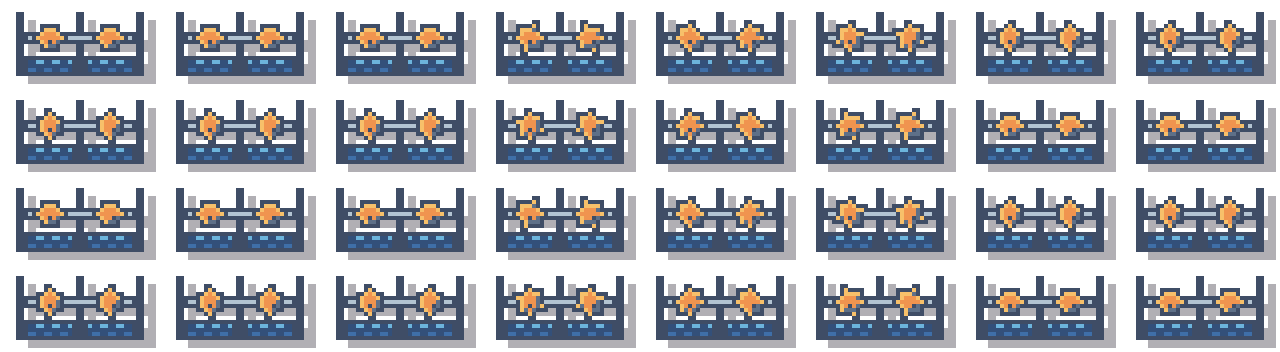
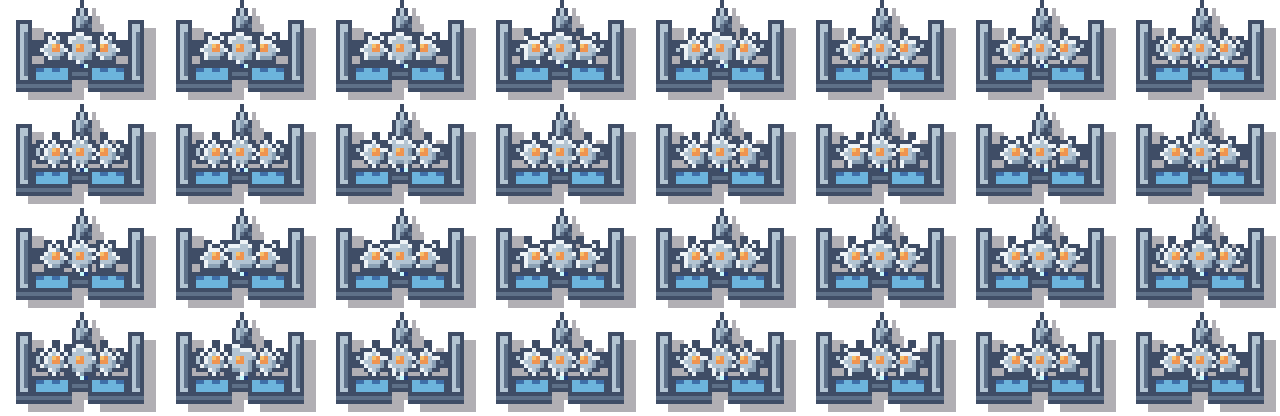
Pixel : souterrains en rampe sous linteau, répartiteurs plus travaillés et animés
Souterrain : tranchée qui se rétrécit et s'assombrit (trame) avant le linteau. Répartiteur : poteaux, nez diviseur,
trois engrenages, capots aux couleurs du niveau, voyants alternés ; cadre agrandi à 160 x 104 / 104 x 160.

diff --git a/pixel/pillow/belt_structures.py b/pixel/pillow/belt_structures.py
@@ -1,10 +1,10 @@
 """Souterrains et répartiteurs en pixel art (16 px par case, x4 à l'export), aux couleurs des convoyeurs.
 
 Souterrain : planche 4 x 4 de cellules de 48 px d'art (le jeu y lit 192 px) ; colonnes = nord, est, sud, ouest ;
-rangées = sortie, entrée, sortie en insertion latérale, entrée en insertion latérale. Le capot couvre la moitié de la case
-du côté enterré.
-Répartiteur : 4 orientations, 32 images chacune (planche 8 x 4). Deux piliers et une cloison laissent voir les deux
-tapis ; un rail à engrenages traverse le milieu et deux capots à chevrons coiffent l'entrée.
+rangées = sortie, entrée, sortie en insertion latérale, entrée en insertion latérale. Le tapis (animé, dessiné par le
+jeu en dessous) s'enfonce dans une rampe tramée de plus en plus sombre, puis passe sous un linteau en acier.
+Répartiteur : 4 orientations, 32 images chacune (planche 8 x 4). Poteaux d'extrémité, cloison centrale avec son nez
+diviseur, rail à trois engrenages qui tournent, capots à chevrons et voyants qui clignotent.
 
 Usage : python pixel/pillow/belt_structures.py <dossier_sortie>   (aperçu)
 """
@@ -20,11 +20,14 @@ STEEL = (P["steel_dark"], P["steel"], P["steel_mid"], P["steel_light"])
 FLOW = {"N": (0, -1), "E": (1, 0), "S": (0, 1), "W": (-1, 0)}
 
 
-def plate_color(a, b, tier):
-    """Plaque à chevrons : `a` avance dans le sens du flux, `b` va en travers (période 4)."""
+def plate_color(a, b, tier, bright=False):
+    """Plaque à chevrons : `a` avance dans le sens du flux, `b` va en travers (période 4).
+    `bright` : fond aux couleurs du niveau et chevrons sombres (capots) ; sinon fond sombre et chevrons clairs."""
     light, dark = BELT[tier]
     c = abs((b % 4) - 1.5)
     ph = (a + (1 if c > 1 else 0)) % 4
+    if bright:
+        return dark if ph == 1 else light
     return light if ph == 1 else dark if ph == 0 else belt.BASE[tier]
 
 
@@ -36,7 +39,7 @@ def rect_mask(size, rects):
     return m
 
 
-def paint_plate(img, rect, flow, tier, inset=1):
+def paint_plate(img, rect, flow, tier, inset=1, bright=False):
     """Remplit l'intérieur d'un rectangle (x0, y0, x1, y1) avec la plaque à chevrons orientée selon `flow`."""
     x0, y0, x1, y1 = rect
     for y in range(y0 + inset, y1 - inset):
@@ -49,7 +52,7 @@ def paint_plate(img, rect, flow, tier, inset=1):
                 a, b = (x - x0), y
             else:
                 a, b = (x1 - 1 - x), y
-            img.putpixel((x, y), plate_color(a, b, tier))
+            img.putpixel((x, y), plate_color(a, b, tier, bright))
 
 
 def with_shadow(img, mask, offset=(3, 2)):
@@ -59,25 +62,66 @@ def with_shadow(img, mask, offset=(3, 2)):
     return out
 
 
+def add_face(img, mask):
+    """Hauteur : face avant sur les 2 px sous le bord sud d'une forme (modifie `img` et `mask`)."""
+    w, h = mask.size
+    src = mask.copy()
+    for y in range(h - 1):
+        for x in range(w):
+            if src.getpixel((x, y)) and not src.getpixel((x, y + 1)):
+                for k, c in ((1, P["steel"]), (2, P["steel_dark"])):
+                    if y + k < h and not src.getpixel((x, y + k)):
+                        img.putpixel((x, y + k), c)
+                        mask.putpixel((x, y + k), 255)
+
+
 # ---------------------------------------------------------------- souterrain
+BAYER = [[0, 8, 2, 10], [12, 4, 14, 6], [3, 11, 1, 9], [15, 7, 13, 5]]
+HOOD = 6          # profondeur du linteau (px)
+RAMP = 8          # longueur de la rampe (px)
+
+
+def tile_coords(direction, x, y):
+    """(s, lat) d'un pixel (x, y) de la case : s avance dans le sens du flux (0 à 16), lat va en travers (-8 à 8)."""
+    px, py = x + 0.5, y + 0.5
+    return {"E": (px, py - 8), "W": (belt.T - px, py - 8), "N": (belt.T - py, px - 8), "S": (py, px - 8)}[direction]
+
+
 def underground_cell(direction, entering, tier):
-    """Cellule de 48 x 48 px d'art ; la case occupe [16, 32[. Capot de 10 px sur le côté enterré, plus 2 px de face avant."""
+    """Cellule de 48 x 48 px d'art ; la case occupe [16, 32[. `d` = distance au bord enterré (0 = au bord)."""
     fx, fy = FLOW[direction]
-    ahead = entering                 # entrée : capot devant (sens du flux) ; sortie : capot derrière
-    s = 1 if ahead else -1
-    hood = [16, 16, 32, 32]
-    if fx:
-        hood[0], hood[2] = (22, 32) if fx * s > 0 else (16, 26)
-    else:
-        hood[1], hood[3] = (22, 32) if fy * s > 0 else (16, 26)
-    x0, y0, x1, y1 = hood
-    mask = rect_mask((48, 48), [(x0, y0, x1, y1 + 2)])
-    img = autoshade(mask, STEEL)
-    paint_plate(img, (x0, y0, x1, y1), (fx, fy), tier, inset=2)
-    for x in range(x0 + 1, x1 - 1):                       # face avant (hauteur du capot)
-        img.putpixel((x, y1), P["steel"])
-        img.putpixel((x, y1 + 1), P["steel_dark"])
-    return with_shadow(img, mask)
+    out_dir = (fx, fy) if entering else (-fx, -fy)           # direction du bord enterré
+    hood = Image.new("L", (48, 48), 0)
+    img = Image.new("RGBA", (48, 48), (0, 0, 0, 0))
+    light, dark = BELT[tier]
+    for ty in range(belt.T):
+        for tx in range(belt.T):
+            s, lat = tile_coords(direction, tx, ty)
+            d = (belt.T - s) if entering else s
+            x, y = tx + 16, ty + 16
+            if d < HOOD:
+                hood.putpixel((x, y), 255)
+                if d < 2:
+                    c = belt.shade(d, out_dir)               # bord du linteau : contour puis lumière ou ombre
+                elif d < HOOD - 2:
+                    c = light if (abs(lat) % 4) < 2 else belt.BASE[tier]     # bandeau de la couleur du niveau
+                elif d < HOOD - 1:
+                    c = P["steel_mid"]
+                else:
+                    c = P["steel_dark"]
+                img.putpixel((x, y), c)
+            elif d < HOOD + RAMP:
+                # rampe : la tranchée se rétrécit vers le linteau (murs en acier) et s'assombrit (trame de plus en
+                # plus dense) ; le tapis animé reste visible entre les murs
+                t = 1 - (d - HOOD) / RAMP
+                wall = 5.5 - 1.5 * t
+                if abs(lat) > wall:
+                    img.putpixel((x, y), P["steel_dark"] if abs(lat) - wall < 1 else P["steel"])
+                elif BAYER[y % 4][x % 4] / 16 < 0.15 + 0.8 * t:
+                    img.putpixel((x, y), P["steel_dark"] if t < 0.6 else P["blue_out"])
+    # hauteur du linteau : face avant sur les 2 px sous son bord sud
+    add_face(img, hood)
+    return with_shadow(img, hood)
 
 
 def underground_sheet(tier):
@@ -97,19 +141,22 @@ def gear_mask(size, cx, cy, r, teeth, ph):
     d.ellipse((cx - r, cy - r, cx + r, cy + r), fill=255)
     for i in range(teeth):
         a = 2 * math.pi * (i + ph) / teeth
-        x, y = round(cx + (r + 0.6) * math.cos(a)), round(cy + (r + 0.6) * math.sin(a))
+        x, y = round(cx + (r + 0.7) * math.cos(a)), round(cy + (r + 0.7) * math.sin(a))
         d.rectangle((x - 1, y - 1, x, y), fill=255)
     return m
 
 
-def splitter_frame(direction, phase, tier):
-    """Une image du répartiteur. Les pièces sont définies pour le nord (32 x 16) puis tournées."""
-    k = "NESW".index(direction)
-    horizontal = direction in "NS"
-    fw, fh = (40, 22) if horizontal else (22, 40)
-    ox, oy = (4, 3) if horizontal else (3, 4)
+FRAME = {"N": (40, 26), "S": (40, 26), "E": (26, 40), "W": (26, 40)}
 
-    def tr(x, y):                       # point local (nord, 32 x 16) -> point de l'image
+
+def splitter_frame(direction, phase, tier):
+    """Une image du répartiteur. Les pièces sont définies pour le nord (32 x 16, le flux monte) puis tournées."""
+    k = "NESW".index(direction)
+    fw, fh = FRAME[direction]
+    ox, oy = (4, 5) if direction in "NS" else (5, 4)
+    size = (fw, fh)
+
+    def tr(x, y):                       # point local -> point de l'image
         if k == 0:
             return x + ox, y + oy
         if k == 2:
@@ -122,27 +169,52 @@ def splitter_frame(direction, phase, tier):
         (ax, ay), (bx, by) = tr(x0, y0), tr(x1, y1)
         return min(ax, bx), min(ay, by), max(ax, bx), max(ay, by)
 
-    posts = [tr_rect(*r) for r in ((0, 0, 2, 16), (30, 0, 32, 16), (15, 0, 17, 16))]
-    rail = tr_rect(2, 8, 30, 11)
-    caps = [tr_rect(2, 0, 15, 5), tr_rect(17, 0, 30, 5)]
-    size = (fw, fh)
-    shape = rect_mask(size, posts + [rail] + caps)
-
     img = Image.new("RGBA", size, (0, 0, 0, 0))
-    img.alpha_composite(autoshade(rect_mask(size, posts), STEEL))
-    img.alpha_composite(autoshade(rect_mask(size, [rail]), STEEL))
+    tall = Image.new("L", size, 0)          # pièces hautes (reçoivent une face avant)
+    flat = Image.new("L", size, 0)          # pièces basses (rail, engrenages)
     flow = FLOW[direction]
-    for cap in caps:
-        img.alpha_composite(autoshade(rect_mask(size, [cap]), STEEL))
-        paint_plate(img, cap, flow, tier, inset=1)
-    # deux engrenages sur le rail, en sens inverses ; 2 dents par boucle (6 dents) pour que la boucle se referme
-    for n, (gx, gy) in enumerate(((8.5, 9.5), (23.5, 9.5))):
+
+    def put(mask, high=True, ramp=STEEL):
+        img.alpha_composite(autoshade(mask, ramp))
+        (tall if high else flat).paste(255, (0, 0), mask)
+
+    # rail transversal, sous tout le reste
+    put(rect_mask(size, [tr_rect(4, 7, 28, 11)]), high=False, ramp=(P["steel_dark"], P["steel"], P["steel_mid"], P["steel_light"]))
+    # poteaux d'extrémité, cloison centrale et nez diviseur côté entrée
+    put(rect_mask(size, [tr_rect(0, 0, 4, 16), tr_rect(28, 0, 32, 16)]))
+    nose = Image.new("L", size, 0)
+    ImageDraw.Draw(nose).polygon([tr(14, 16), tr(18, 16), tr(16, 20.5)], fill=255)
+    wall = rect_mask(size, [tr_rect(14, 3, 18, 16)])
+    wall.paste(255, (0, 0), nose)
+    put(wall)
+    for lx, ly in ((1.5, 1.5), (1.5, 14), (29.5, 1.5), (29.5, 14)):   # rivets des poteaux
+        x, y = tr(lx, ly)
+        img.putpixel((int(x), int(y)), P["steel_light"])
+    # engrenages : un grand au centre, un de chaque côté, sens alternés, 2 dents par boucle (6 ou 8 dents)
+    for n, (gx, gy, r, teeth) in enumerate(((9.5, 9, 3.0, 6), (16, 9, 3.6, 8), (22.5, 9, 3.0, 6))):
         cx, cy = tr(gx, gy)
-        ph = (2 * phase) * (1 if n == 0 else -1)
-        g = autoshade(gear_mask(size, cx, cy, 2.6, 6, ph), (P["steel_dark"], P["steel"], P["orange"], P["tan"]))
-        img.alpha_composite(g)
-        img.putpixel((round(cx), round(cy)), P["steel_dark"])
-    return with_shadow(img, shape)
+        gm = gear_mask(size, cx, cy, r, teeth, 2 * phase * (-1 if n == 1 else 1) * 6 / teeth)
+        put(gm, high=False, ramp=(P["steel_dark"], P["steel_mid"], P["steel_light"], P["white"]))
+        hx_, hy_ = round(cx), round(cy)
+        for dx in (0, -1):
+            for dy in (0, -1):
+                img.putpixel((hx_ + dx, hy_ + dy), P["orange"])
+        img.putpixel((hx_ - 1, hy_ - 1), P["tan"])
+    # capots aux couleurs du niveau côté sortie
+    caps = [tr_rect(4, 0, 14, 5), tr_rect(18, 0, 28, 5)]
+    put(rect_mask(size, caps))
+    for cap in caps:
+        paint_plate(img, cap, flow, tier, inset=1, bright=True)
+    # voyants sur la cloison : s'allument en alternance
+    on = phase < 0.5
+    for n, (lx, ly) in enumerate(((15, 4.5), (16, 4.5))):
+        x, y = tr(lx, ly)
+        img.putpixel((int(x), int(y)), P["cyan_light"] if (n == 0) == on else P["blue_out"])
+    add_face(img, tall)
+    allmask = Image.new("L", size, 0)
+    allmask.paste(255, (0, 0), tall)
+    allmask.paste(255, (0, 0), flat)
+    return with_shadow(img, allmask)
 
 
 def splitter_sheet(direction, tier):
@@ -157,11 +229,23 @@ def splitter_sheet(direction, tier):
 if __name__ == "__main__":
     o = sys.argv[1] if len(sys.argv) > 1 else "out"
     os.makedirs(o, exist_ok=True)
-    prev = Image.new("RGBA", (48 * 4 * 3 * 3, 48 * 4 * 3 + 260), P["grass"])
+    # souterrains : ligne droite vers l'est (tapis animé dessous), entrée puis sortie, pour juger du raccord
+    rows = []
+    for tier in ("yellow", "red", "blue"):
+        line = Image.new("RGBA", (16 * 7, 16 * 3), P["grass"])
+        for i in range(7):
+            line.alpha_composite(belt.piece(0, 5, tier), (i * 16, 16))
+        line.alpha_composite(underground_cell("E", True, tier), (2 * 16 - 16, 0))
+        line.alpha_composite(underground_cell("E", False, tier), (4 * 16 - 16, 0))
+        rows.append(line.resize((line.width * 5, line.height * 5), Image.NEAREST))
+    c = Image.new("RGBA", (rows[0].width, rows[0].height * 3))
+    for i, r in enumerate(rows):
+        c.paste(r, (0, i * r.height))
+    c.save(f"{o}/ug_all.png")
+    # répartiteurs : 4 orientations, 3 niveaux
+    prev = Image.new("RGBA", (4 * 150, 3 * 125), P["grass"])
     for i, tier in enumerate(("yellow", "red", "blue")):
-        u = underground_sheet(tier)
-        prev.alpha_composite(u.resize((u.width * 3, u.height * 3), Image.NEAREST), (i * 48 * 4 * 3, 0))
         for j, d in enumerate("NESW"):
             f = splitter_frame(d, 0.0, tier)
-            prev.alpha_composite(f.resize((f.width * 3, f.height * 3), Image.NEAREST), (i * 576 + j * 140, 48 * 4 * 3 + 5 + (0 if d in "NS" else 0)))
-    prev.save(f"{o}/belt_struct_preview.png")
+            prev.alpha_composite(f.resize((f.width * 3, f.height * 3), Image.NEAREST), (j * 150 + 5, i * 125 + 5))
+    prev.save(f"{o}/split_preview.png")

diff --git a/pixel/STYLE.md b/pixel/STYLE.md
@@ -26,3 +26,7 @@ Référence pour tout sprite du mod pixel. Les couleurs vivent dans `pillow/pale
 ## Animation
 - 32 images par boucle, planche 8 x 4 comme l'original. Tout mouvement doit se refermer : engrenages à nombre entier de dents par boucle (2), pistons et bras en sinus. **[VALIDÉ]**
 - Voyant du moteur qui clignote : indique visuellement que la machine travaille. **[PROVISOIRE]**
+
+## Structures de convoyeurs
+- Souterrain : le tapis s'enfonce dans une rampe qui se rétrécit et s'assombrit (trame de damier, laisse voir le tapis animé du jeu), puis passe sous un linteau en acier avec un bandeau de la couleur du niveau. **[VALIDÉ par Bastien comme direction, à juger en jeu]**
+- Répartiteur : poteaux d'extrémité, cloison avec nez diviseur côté entrée, rail à trois engrenages (acier, moyeu orange) qui tournent, capots à chevrons de la couleur du niveau côté sortie, deux voyants qui clignotent en alternance. **[PROVISOIRE]**
